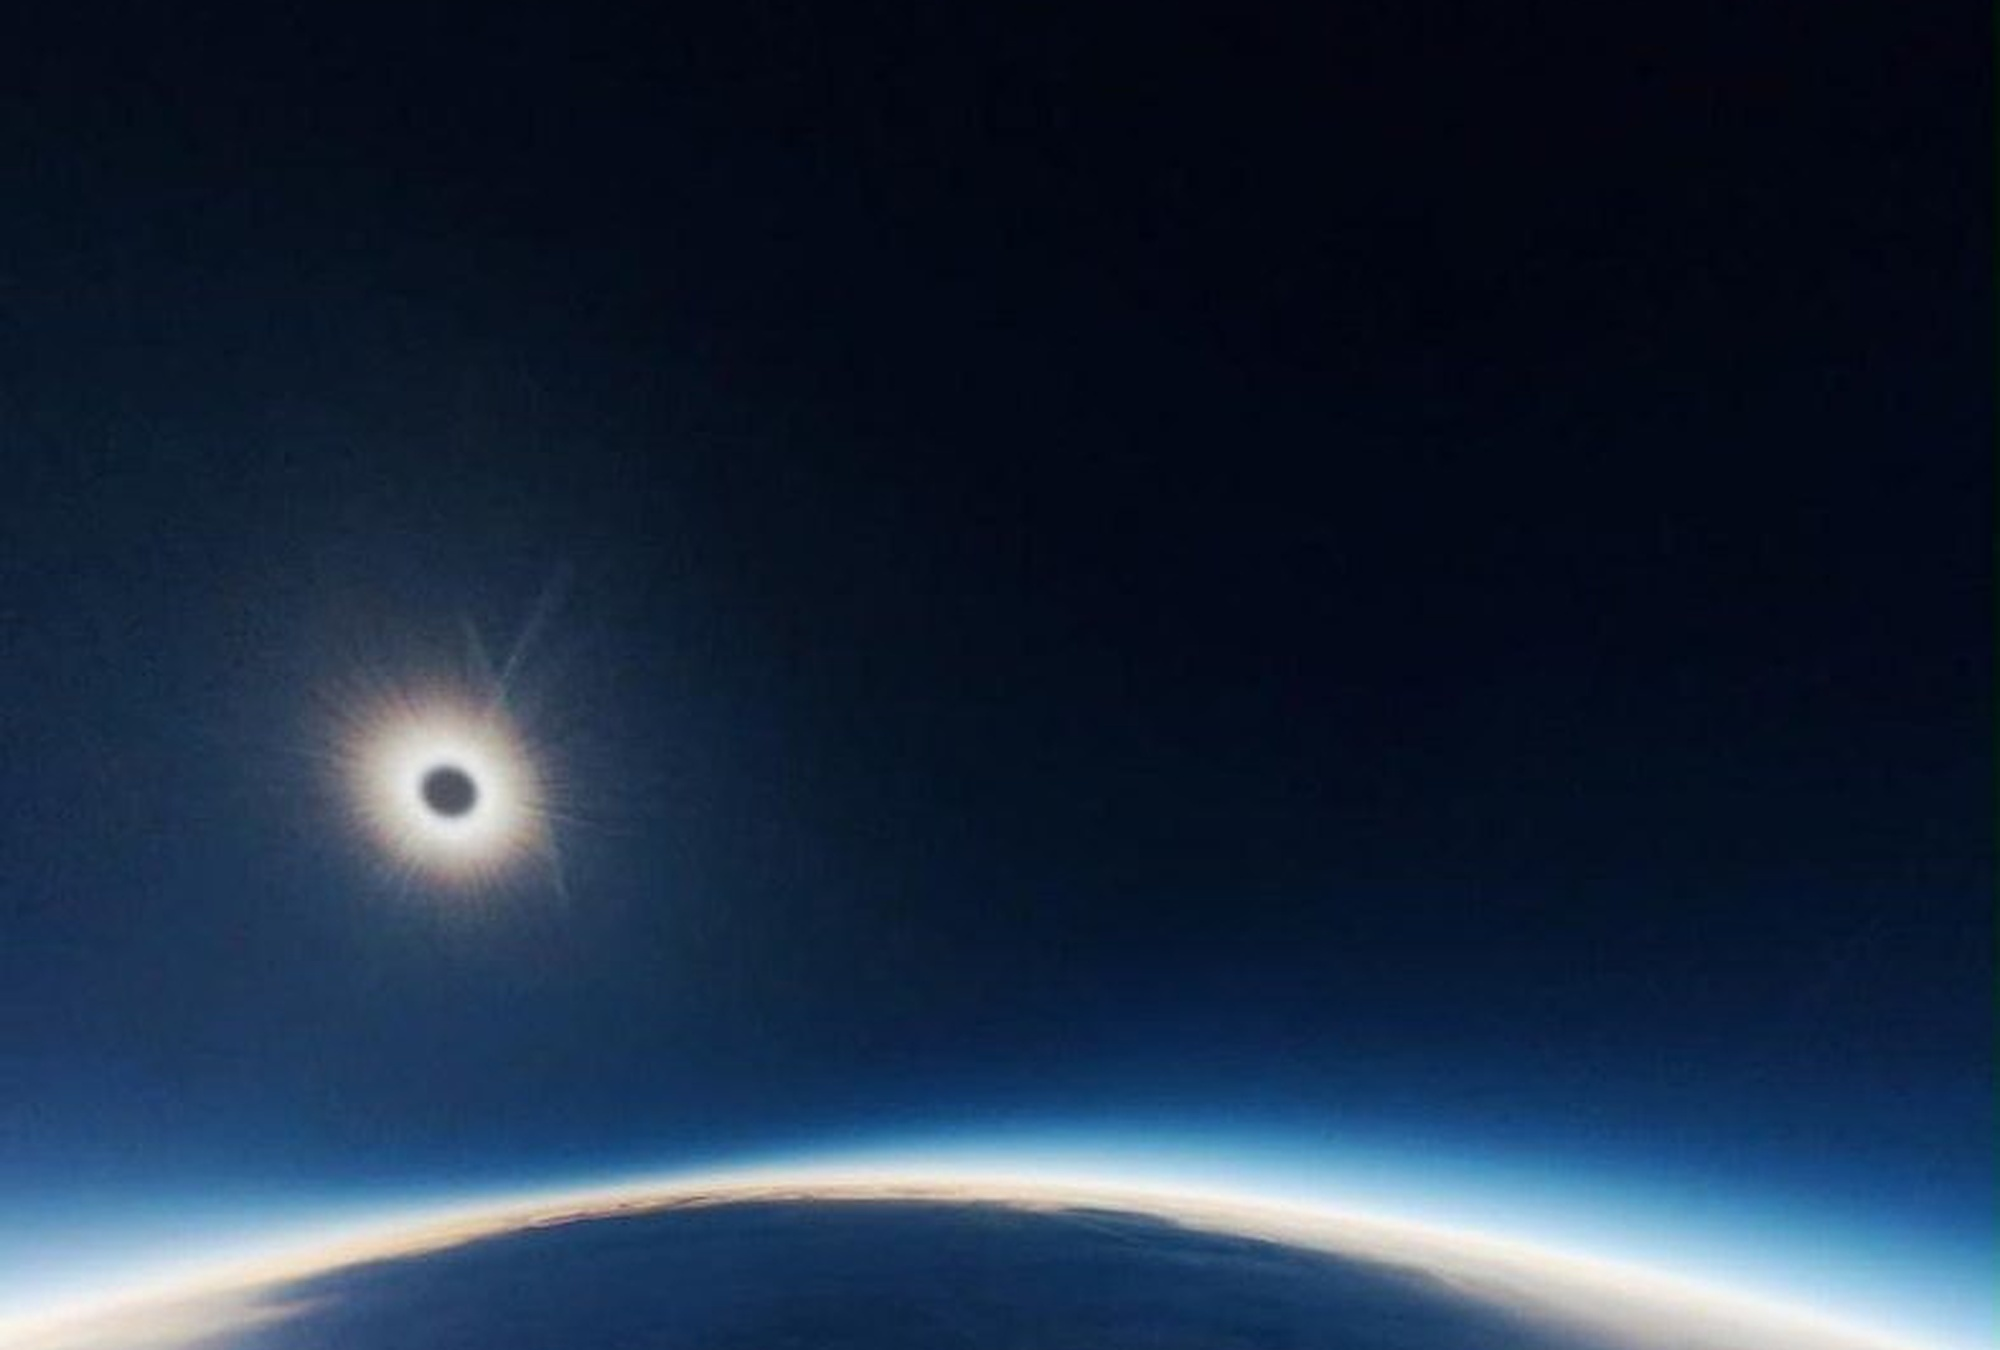
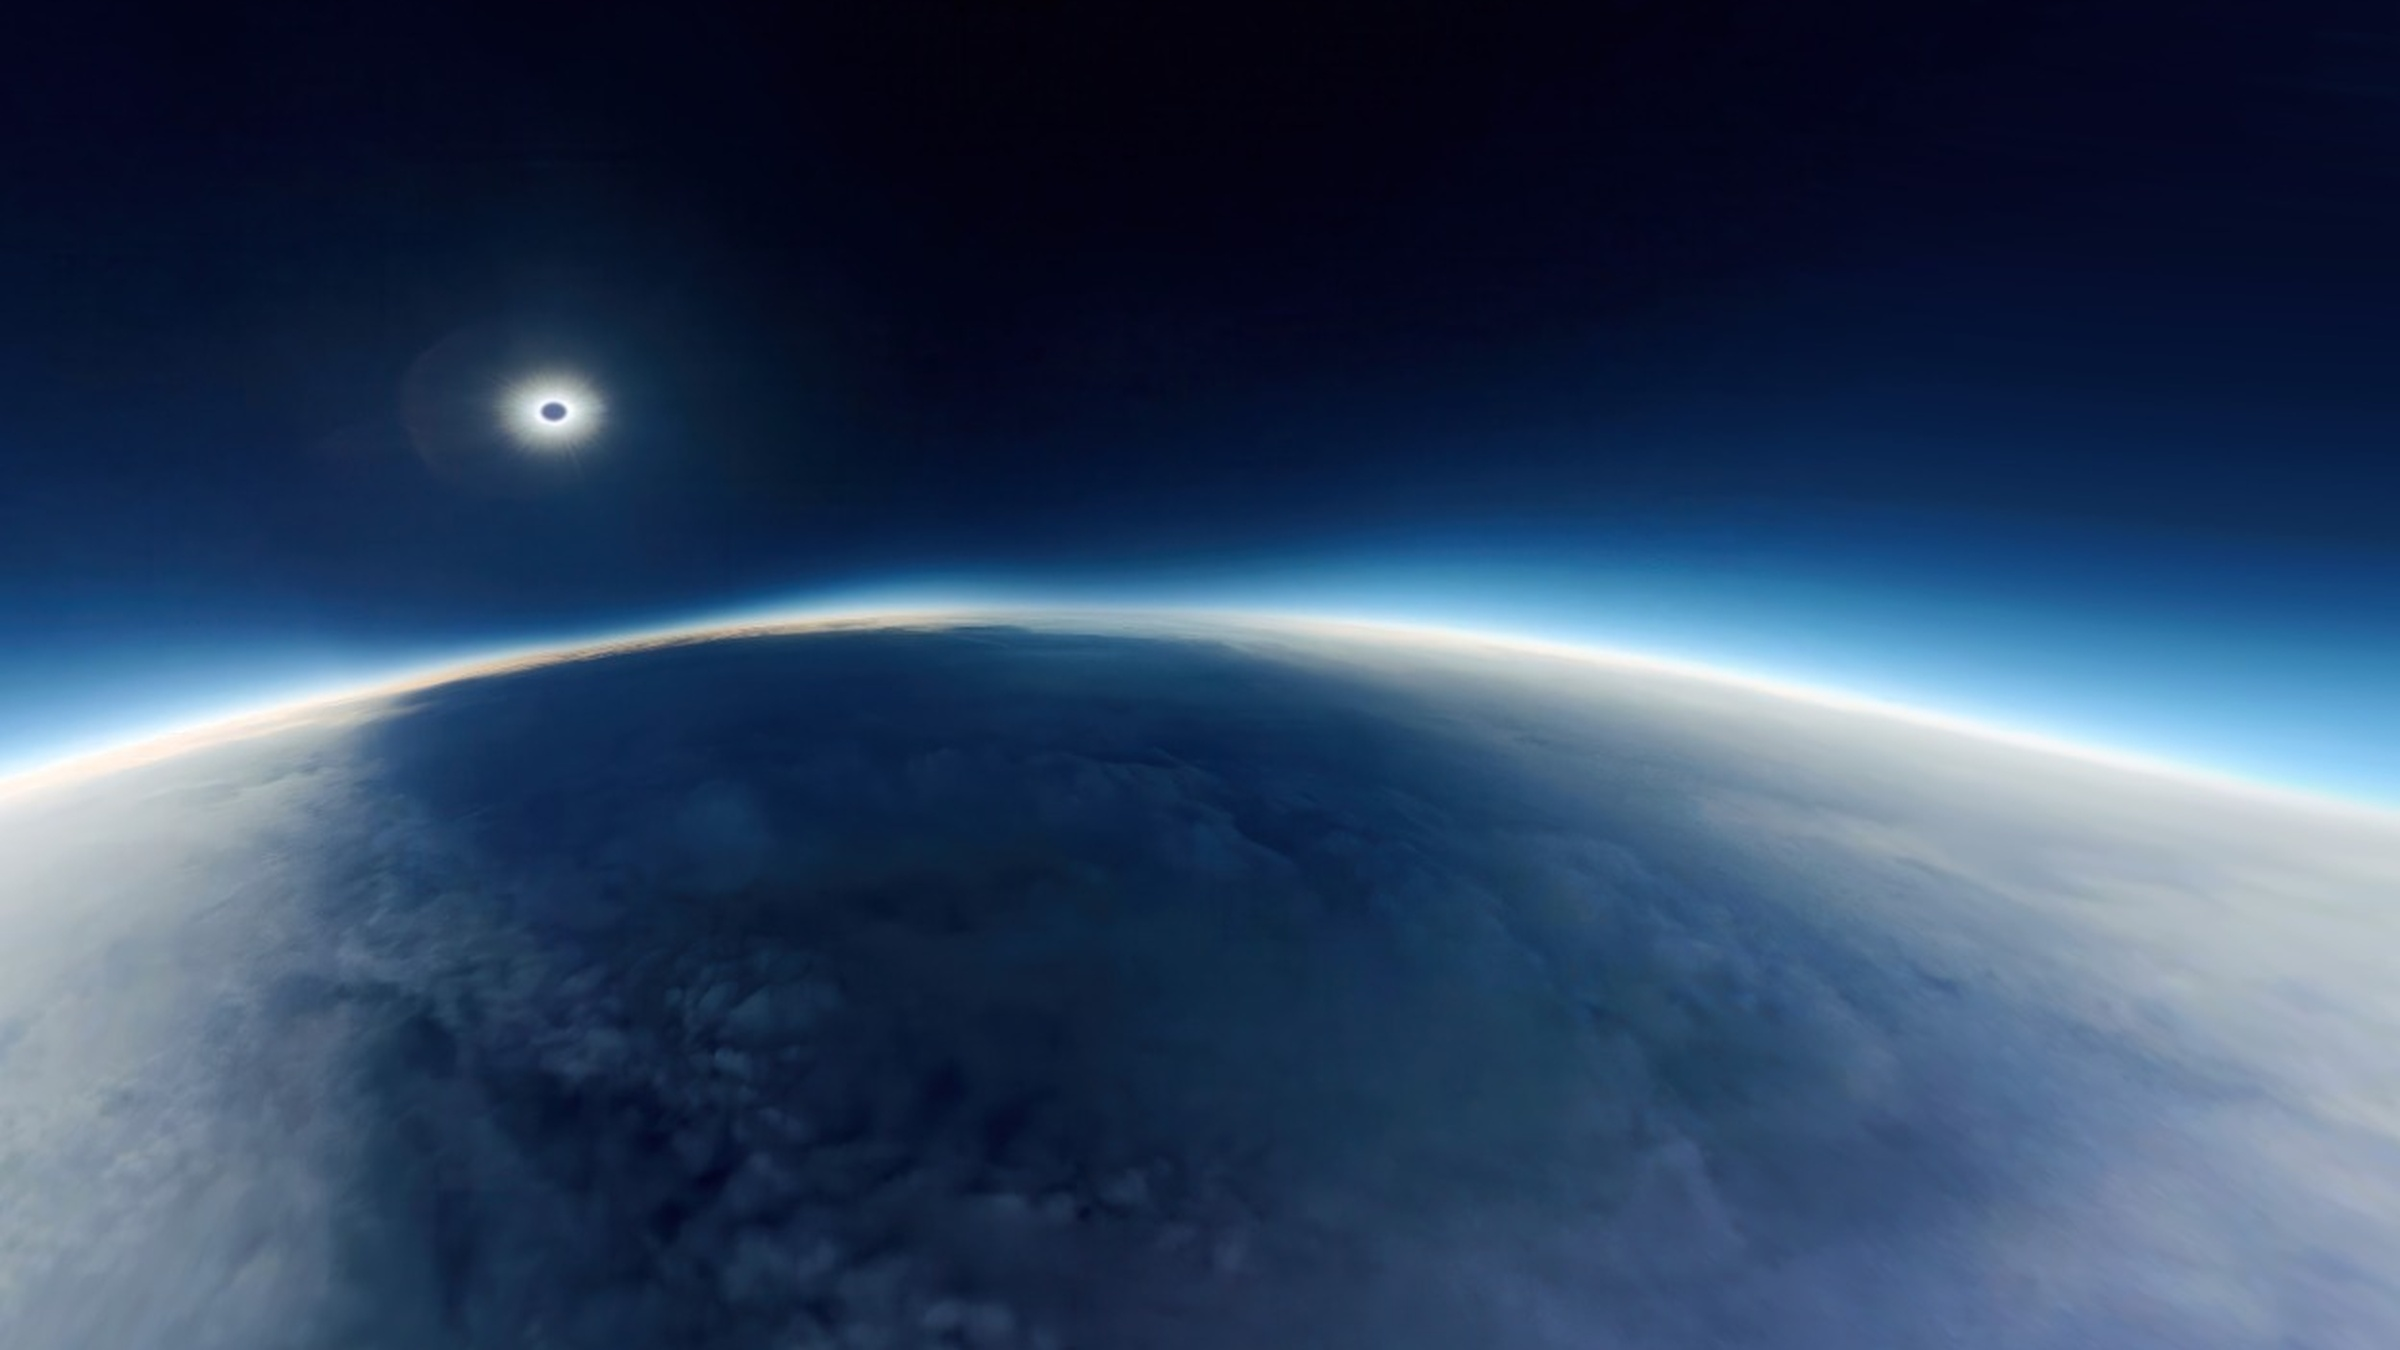
Close slide: swap in the correct Dorothy Project photo Mitch sent
The previous version used an upscaled crop of the low-res 787x1400 press
photo from the recap deck. Mitch sent the actual full-bleed 1600x900 shot
(properly watermarked, much higher quality). Re-cropped it so the corona
clears the centered thank-you text instead of sitting right behind the
headline, and added a small photo credit line in the footer since this crop
no longer includes the in-frame Dorothy Project watermark.

diff --git a/index.html b/index.html
@@ -78,6 +78,7 @@ html[data-mode="deck"] .logo-sm{right:120px;top:116px;height:24px;width:auto}
 html[data-mode="deck"] .conf{left:0;right:0;bottom:52px;text-align:center;font-size:20px;line-height:28px;color:var(--muted)}
 html[data-mode="deck"] .foot{left:120px;right:120px;bottom:96px;font-size:18px;line-height:26px;color:var(--muted)}
 html[data-mode="deck"] .pnum{right:120px;bottom:52px;font-size:20px;line-height:28px;color:var(--muted)}
+html[data-mode="deck"] .s-close .photo-credit{position:absolute;left:120px;bottom:52px;font-size:14px;line-height:20px;color:var(--muted);opacity:.55;margin:0}
 html[data-mode="deck"] .cap{font-size:20px;line-height:24px}
 html[data-mode="deck"] .ic{width:32px;height:32px}
 
@@ -169,7 +170,7 @@ html[data-mode="deck"] .s-market .bg-photo{object-position:50% 50%}
 html[data-mode="deck"] .s-road .bg-photo{object-position:50% 50%}
 html[data-mode="deck"] .s-team .bg-photo{object-position:50% 50%}
 html[data-mode="deck"] .s-fund .bg-photo{object-position:50% 50%}
-html[data-mode="deck"] .s-close .bg-photo{object-position:78% 14%}
+html[data-mode="deck"] .s-close .bg-photo{object-position:50% 50%}
 html[data-mode="deck"] .tr-photo{left:auto;right:0;top:0;width:720px;height:1080px;object-position:40% 50%}
 html[data-mode="deck"] .tr-shade{left:auto;right:0;top:0;width:720px;height:1080px;background:linear-gradient(90deg, #060E19 0%, rgba(6,14,25,.55) 20%, rgba(6,14,25,.12) 48%, rgba(6,14,25,0) 70%),linear-gradient(180deg, rgba(6,14,25,.5) 0%, rgba(6,14,25,0) 20%, rgba(6,14,25,0) 80%, rgba(6,14,25,.6) 100%)}
 html[data-mode="deck"] .s-traction .hd{width:1040px}
@@ -247,6 +248,8 @@ html[data-mode="portrait"] .hd h2 .line{display:block}
 html[data-mode="portrait"] .sub{font-size:42px;line-height:1.35;margin-top:24px}
 html[data-mode="portrait"] .logo-sm{right:72px;top:124px;height:36px;width:auto}
 html[data-mode="portrait"] .conf{left:0;right:0;bottom:48px;text-align:center;font-size:28px;line-height:36px;color:var(--muted)}
+html[data-mode="portrait"] .s-close .conf{bottom:92px}
+html[data-mode="portrait"] .s-close .photo-credit{position:absolute;left:0;right:0;bottom:16px;text-align:center;font-size:22px;line-height:28px;color:var(--muted);opacity:.55;margin:0}
 html[data-mode="portrait"] .foot{left:72px;width:936px;bottom:108px;font-size:36px;line-height:1.35;color:var(--muted)}
 html[data-mode="portrait"] .cap{font-size:36px;line-height:44px}
 html[data-mode="portrait"] .ic{width:44px;height:44px}
@@ -357,7 +360,7 @@ html[data-mode="portrait"] .s-road .bg-photo{object-position:50% 50%}
 html[data-mode="portrait"] .s-team .bg-photo{object-position:50% 50%}
 html[data-mode="portrait"] .s-fund .bg-photo{object-position:50% 50%}
 html[data-mode="portrait"] .s-fund .shade{background:linear-gradient(180deg, rgba(6,14,25,.82), rgba(6,14,25,.92))}
-html[data-mode="portrait"] .s-close .bg-photo{object-position:75% 16%}
+html[data-mode="portrait"] .s-close .bg-photo{object-position:40% 45%}
 html[data-mode="portrait"] .tr-photo{left:0;top:1080px;width:1080px;height:840px;object-position:50% 40%}
 html[data-mode="portrait"] .tr-shade{left:0;top:1080px;width:1080px;height:840px;background:linear-gradient(180deg, #060E19 0%, rgba(6,14,25,0) 38%, rgba(6,14,25,.6) 100%)}
 html[data-mode="portrait"] .credits{left:72px;right:72px;bottom:150px;text-align:center;font-size:36px;line-height:1.35}
@@ -980,6 +983,7 @@ html[data-mode="portrait"] .close .tagline{font-size:38px}
   </div>
   <p class="conf">Confidential · October 2026</p>
   <p class="pnum">10 / 10</p>
+  <p class="photo-credit">Stratosphere eclipse photo · The Dorothy Project</p>
 </section>
 
 </main>
